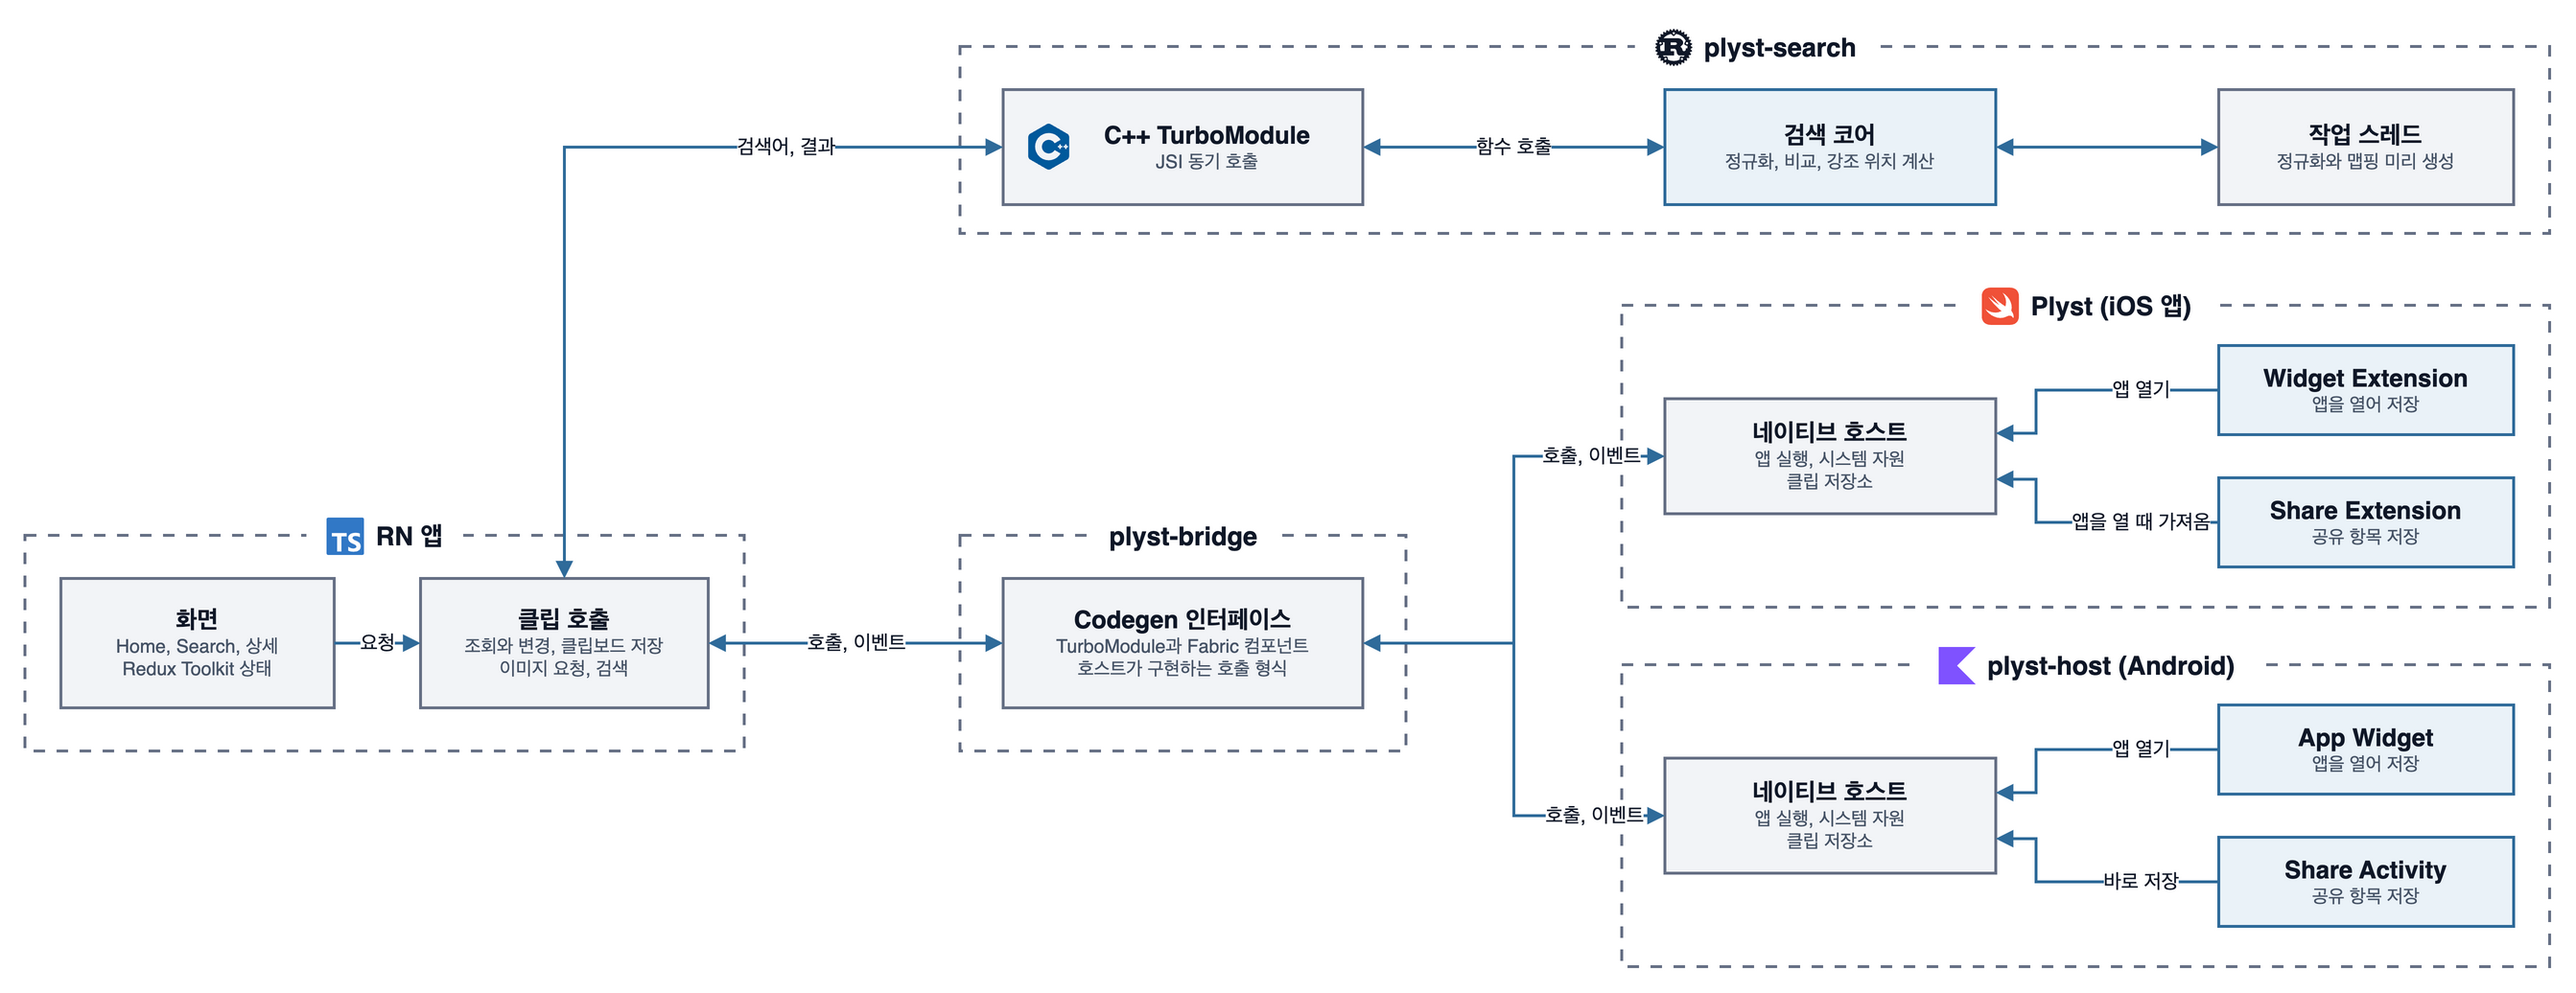
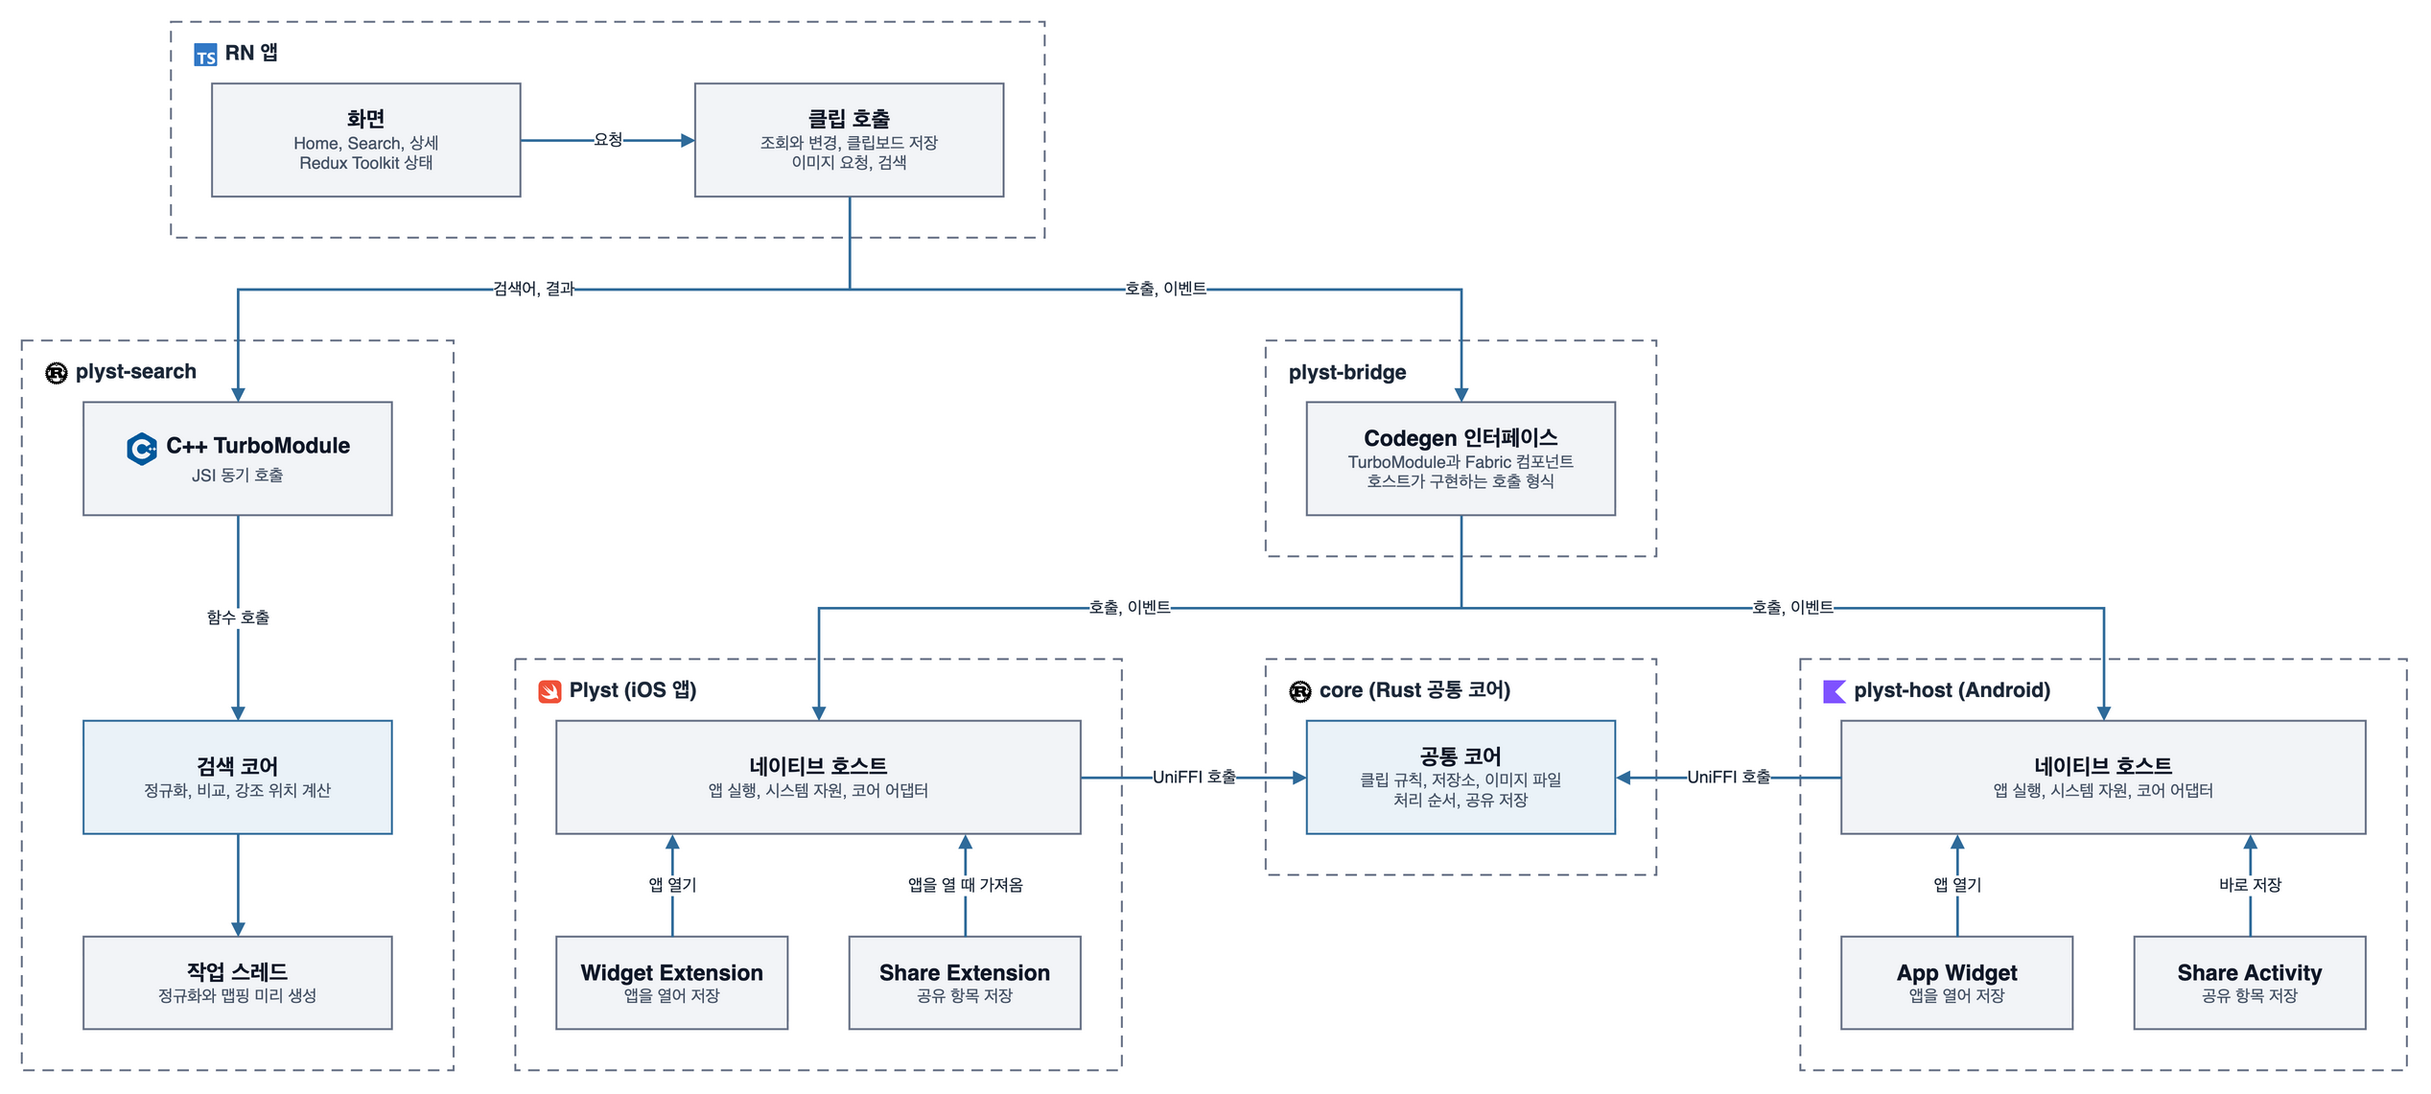
docs: 구조 그림을 Rust 공통 코어 기준으로 갱신

diff --git a/README.md b/README.md
@@ -177,7 +177,7 @@ export interface Spec extends TurboModule {
 ## 앱 아키텍처
 
 - 화면과 상태는 iOS와 Android가 같은 RN 코드를 사용
-- 검색 계산과 클립 값 규칙은 두 플랫폼이 같은 Rust 코드를 사용
+- 검색 계산과 클립 규칙, 저장소, 이미지 파일, 처리 순서는 두 플랫폼이 같은 Rust 코드를 사용
 - 실행 환경과 시스템 자원은 플랫폼별 네이티브 호스트가 담당
 
 ![앱 아키텍처](./docs/architecture.png)
